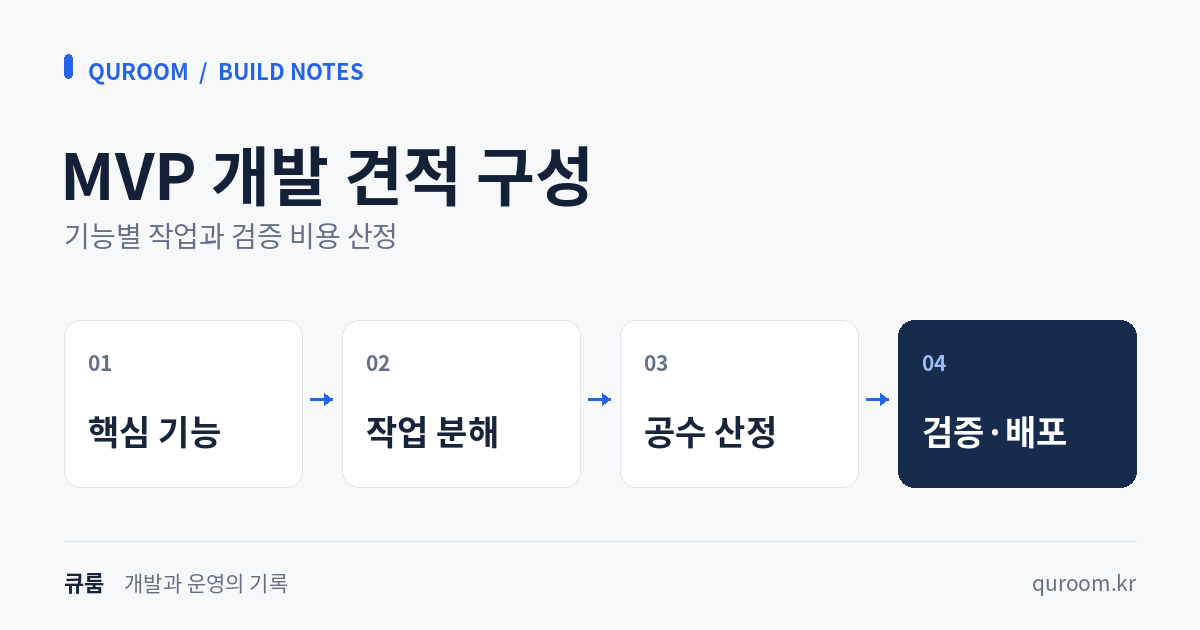
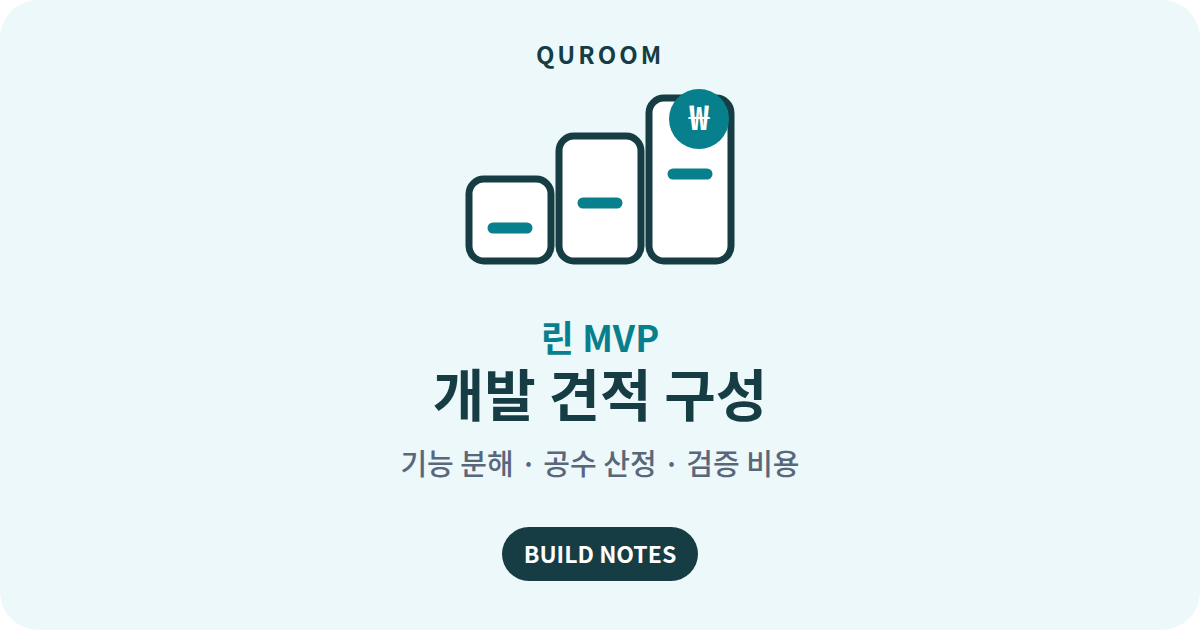
Replace build note covers with simple branded cards

diff --git a/scripts/build-note-covers.py b/scripts/build-note-covers.py
@@ -1,75 +1,33 @@
-"""Rebuild original diagram PNGs without an image-generation API.
+"""Render checked-in build-note SVG sources to 1200×630 PNG files.
 
-Run with Python, Pillow and Noto Sans CJK installed.
-Uses the Korean face (index 1), Bold titles and Regular body text.
-Runtime has no new dependencies.
+The SVG files are the editable originals. They follow
+codex-document/build-note-cover-standard.md. This authoring script requires
+Playwright with Chromium and adds no production runtime dependency.
 """
 
-import sys
 from pathlib import Path
 
-from PIL import Image, ImageDraw, ImageFont
+from playwright.sync_api import sync_playwright
 
 ROOT = Path(__file__).resolve().parent.parent
-sys.path.insert(0, str(ROOT))
-from landing.build_note_images import COVERS  # noqa: E402
-
-FONTS = Path("/usr/share/fonts/opentype/noto")
-OUT = ROOT / "landing/static/landing/images/build-notes"
+IMAGE_DIR = ROOT / "landing/static/landing/images/build-notes"
+SOURCE_DIR = IMAGE_DIR / "sources"
 
 
-def build():
-    OUT.mkdir(parents=True, exist_ok=True)
+def build() -> None:
+    sources = sorted(SOURCE_DIR.glob("*.svg"))
+    if not sources:
+        raise SystemExit(f"No SVG sources found in {SOURCE_DIR}")
 
-    def font(size, weight="Regular"):
-        face = "Bold" if weight == "SemiBold" else "Regular"
-        return ImageFont.truetype(str(FONTS / f"NotoSansCJK-{face}.ttc"), size, index=1)
-
-    for key, title, subtitle, steps in set(COVERS.values()):
-        image = Image.new("RGB", (1200, 630), "#f7f8fa")
-        draw = ImageDraw.Draw(image)
-        draw.rounded_rectangle((64, 54, 72, 78), radius=4, fill="#2563eb")
-        draw.text(
-            (88, 54),
-            "QUROOM  /  BUILD NOTES",
-            font=font(22, "SemiBold"),
-            fill="#2563eb",
-        )
-        draw.text((60, 125), title, font=font(64, "SemiBold"), fill="#142037")
-        draw.text((64, 214), subtitle, font=font(28), fill="#647086")
-        for index, step in enumerate(steps):
-            x = 64 + index * 278
-            draw.rounded_rectangle(
-                (x, 320, x + 238, 487),
-                radius=16,
-                fill="#172b4d" if index == 3 else "#ffffff",
-                outline="#172b4d" if index == 3 else "#e0e5ec",
-                width=1,
-            )
-            draw.text(
-                (x + 24, 346),
-                f"0{index + 1}",
-                font=font(21, "SemiBold"),
-                fill="#9ebdf6" if index == 3 else "#647086",
-            )
-            draw.text(
-                (x + 24, 405),
-                step,
-                font=font(34, "SemiBold"),
-                fill="#ffffff" if index == 3 else "#17243b",
-            )
-            if index < 3:
-                draw.line((x + 246, 399, x + 268, 399), fill="#2563eb", width=3)
-                draw.polygon(
-                    ((x + 268, 399), (x + 260, 393), (x + 260, 405)), fill="#2563eb"
-                )
-        draw.line((64, 541, 1136, 541), fill="#e0e5ec", width=1)
-        draw.text((64, 565), "큐룸", font=font(22, "SemiBold"), fill="#17243b")
-        draw.text((124, 566), "개발과 운영의 기록", font=font(21), fill="#647086")
-        draw.text((1136, 566), "quroom.kr", font=font(21), fill="#647086", anchor="ra")
-        path = OUT / f"{key}.png"
-        image.save(path, optimize=True)
-        print(f"{path.relative_to(ROOT)}: {path.stat().st_size:,} bytes")
+    with sync_playwright() as playwright:
+        browser = playwright.chromium.launch()
+        page = browser.new_page(viewport={"width": 1200, "height": 630})
+        for source in sources:
+            target = IMAGE_DIR / f"{source.stem}.png"
+            page.goto(source.as_uri())
+            page.screenshot(path=target)
+            print(f"{target.relative_to(ROOT)}: {target.stat().st_size:,} bytes")
+        browser.close()
 
 
 if __name__ == "__main__":

diff --git a/landing/build_note_images.py b/landing/build_note_images.py
@@ -3,45 +3,38 @@
 COVERS = {
     "vibe-coding-deploy-troubleshooting": (
         "deploy",
-        "웹서비스 배포 경로",
-        "브라우저 → DNS → 프록시 → 앱 서버",
-        ("브라우저", "DNS", "프록시", "앱 서버"),
+        "바이브코딩 실서버 배포 오류: DNS, Nginx, 정적 파일",
+        "DNS · Nginx · 정적 파일",
     ),
     "self-hosted-dokku-vps-guide": (
         "dokku",
-        "Dokku 배포 흐름",
-        "코드 변경에서 서비스 운영까지",
-        ("Git push", "빌드", "컨테이너", "라우팅"),
+        "셀프 호스팅 Dokku VPS 배포: Git push, 컨테이너, SSL",
+        "Git push · 컨테이너 · SSL",
     ),
     "portone-v2-webhook-idempotency-guide": (
         "webhook",
-        "결제 웹훅 처리 흐름",
-        "검증과 중복 확인 후 상태 반영",
-        ("웹훅 수신", "서명 검증", "중복 확인", "상태 반영"),
+        "결제 웹훅 중복 결제 방지: 서명 검증, 멱등성, 금액 확인",
+        "서명 검증 · 멱등성 · 금액 확인",
     ),
     "ai-prototype-refactoring-guide": (
         "refactoring",
-        "프로토타입 상용화 점검",
-        "기존 코드에서 운영 가능한 구조로",
-        ("코드 진단", "경계 분리", "테스트", "운영 점검"),
+        "AI 프로토타입 상용화 리팩터링: 코드 진단, 경계 분리, 테스트",
+        "코드 진단 · 경계 분리 · 테스트",
     ),
     "outsourcing-contract-wbs-out-of-scope-guide": (
         "scope",
-        "외주 개발 범위 합의",
-        "구현 범위와 인수 기준을 함께 정리",
-        ("요구사항", "제외 범위", "작업 명세", "인수 검수"),
+        "외주 계약 과업 범위와 검수 기준: 포함 범위, 제외 범위, 인수 조건",
+        "포함 범위 · 제외 범위 · 인수 조건",
     ),
     "mvp-development-cost-breakdown": (
         "mvp-cost",
-        "MVP 개발 견적 구성",
-        "기능별 작업과 검증 비용 산정",
-        ("핵심 기능", "작업 분해", "공수 산정", "검증·배포"),
+        "린 MVP 개발 견적 구성: 기능 분해, 공수 산정, 검증 비용",
+        "기능 분해 · 공수 산정 · 검증 비용",
     ),
     "building-from-features-fails": (
         "discovery",
-        "제품 개발의 출발점",
-        "문제 확인에서 작은 실험까지",
-        ("사용자 문제", "가설", "최소 실험", "피드백"),
+        "제품 기획에서 기능보다 문제 정의: 사용자 문제, 가설, 최소 실험",
+        "사용자 문제 · 가설 · 최소 실험",
     ),
 }
 COVERS["기능부터-시작하면-망합니다"] = COVERS["building-from-features-fails"]
@@ -51,9 +44,9 @@ def cover_for_slug(slug):
     cover = COVERS.get(slug)
     if cover is None:
         return None
-    key, title, subtitle, steps = cover
+    key, alt, caption = cover
     return {
         "path": f"landing/images/build-notes/{key}.png",
-        "alt": f"{title}: {' → '.join(steps)}",
-        "caption": subtitle,
+        "alt": alt,
+        "caption": caption,
     }

diff --git a/codex-document/build-note-cover-standard.md b/codex-document/build-note-cover-standard.md
@@ -1,0 +1,30 @@
+# 빌드노트 대표 이미지 제작 표준
+
+## 목적
+
+목록 썸네일, 상세 본문, SNS 공유, `BlogPosting.image`에서 함께 사용할 대표 이미지를 일관되게 만든다. 검색 노출을 보장하는 장치가 아니라 글의 주제와 이미지를 명확하게 연결하는 보조 신호다.
+
+## 고정 규격
+
+- PNG 1200×630, 가급적 100KB 이하. 편집 원본은 같은 이름의 SVG로 보관한다.
+- Noto Sans CJK KR 사용. 제목은 Bold, 보조 문구는 Regular 또는 Medium.
+- 구성: 상단 `QUROOM`, 주제별 단순 아이콘, 짧은 kicker, 한 줄 핵심 제목, 키워드 3개, 하단 `BUILD NOTES`.
+- 이미지 내부 제목은 작은 썸네일에서도 읽히도록 짧게 쓴다. 본문 제목 전체를 복사하지 않는다.
+- 글마다 아이콘·배경색·강조색은 바꾸되 크기, 여백, 타이포그래피 체계는 유지한다.
+- 사진, 생성형 이미지, 복잡한 설명 도표는 기본값으로 사용하지 않는다.
+- `alt`는 글 주제와 핵심 키워드를 자연스럽게 설명한다.
+
+## 파일과 재생성
+
+- SVG 원본: `landing/static/landing/images/build-notes/sources/`
+- 배포 PNG: `landing/static/landing/images/build-notes/`
+- 렌더링: `python3 scripts/build-note-covers.py`
+- 렌더링 후 `./scripts/verify.sh`와 모바일 화면 검증을 수행한다.
+
+## 신규 글 체크리스트
+
+1. `landing/build_note_images.py`에 slug, 이미지 키, alt, caption을 등록한다.
+2. 기존 SVG 하나를 복사해 주제 아이콘, 배경색, kicker, 제목, 키워드를 바꾼다.
+3. PNG를 생성하고 작은 크기로 축소해 제목 가독성을 확인한다.
+4. 본문과 관계없는 키워드나 과장된 문구를 넣지 않는다.
+5. 상세 페이지의 OG 이미지와 `BlogPosting.image`가 같은 절대 URL인지 확인한다.

diff --git a/codex-document/build-note-seo-review.md b/codex-document/build-note-seo-review.md
@@ -4,10 +4,10 @@
 
 ## 대표 이미지
 
-- 7개 주제별 자체 제작 흐름도, PNG 1200×630. 이미지 생성 API와 외부 사진 미사용.
+- 7개 주제별 단순 타이포그래피 카드, PNG 1200×630. 이미지 생성 API와 외부 사진 미사용.
 - 본문, OG, BlogPosting.image에서 같은 파일을 사용한다. 이미지 노출이나 순위는 검색엔진이 결정한다.
-- `landing/build_note_images.py`에 slug별 주제와 단계를 정의한다. 신규 글은 관련 도식이 등록된 경우에만 Article 이미지가 추가된다.
-- `python3 scripts/build-note-covers.py`로 재생성한다. 제작 환경에 Pillow와 Noto Sans CJK가 필요하며 서버 런타임 의존성은 없다. 한국어 face(index 1)의 Bold 제목/단계명과 Regular 설명을 사용한다.
+- `landing/build_note_images.py`에 slug별 이미지 키, alt, caption을 정의한다. 신규 글은 관련 카드가 등록된 경우에만 Article 이미지가 추가된다.
+- 상세 제작 규칙은 `codex-document/build-note-cover-standard.md`를 따른다. SVG 원본을 편집한 뒤 `python3 scripts/build-note-covers.py`로 PNG를 재생성한다.
 
 ## 측정
 
